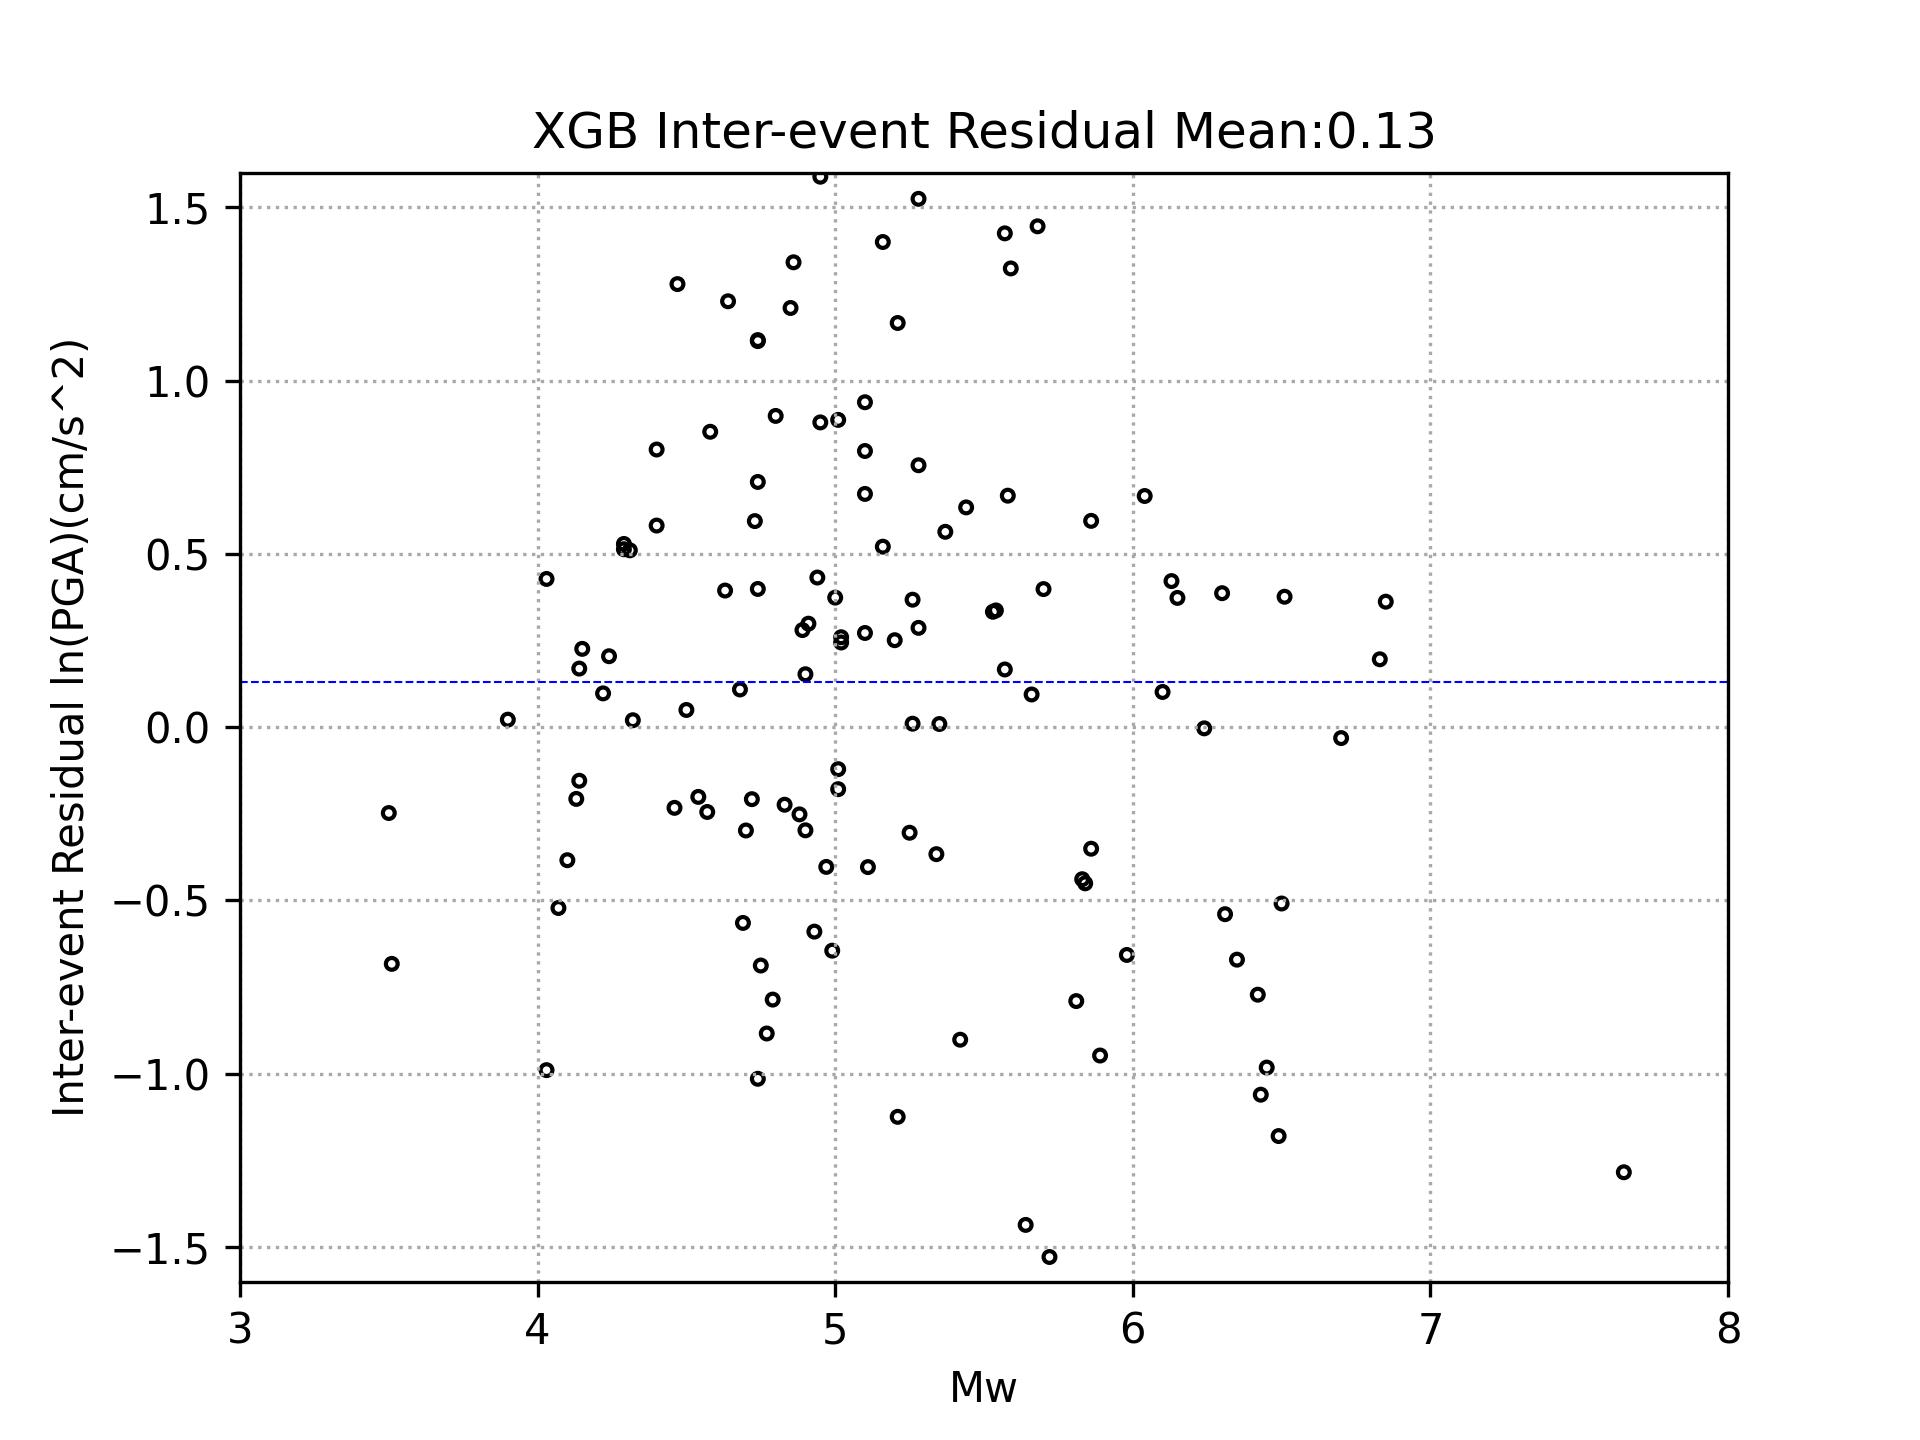
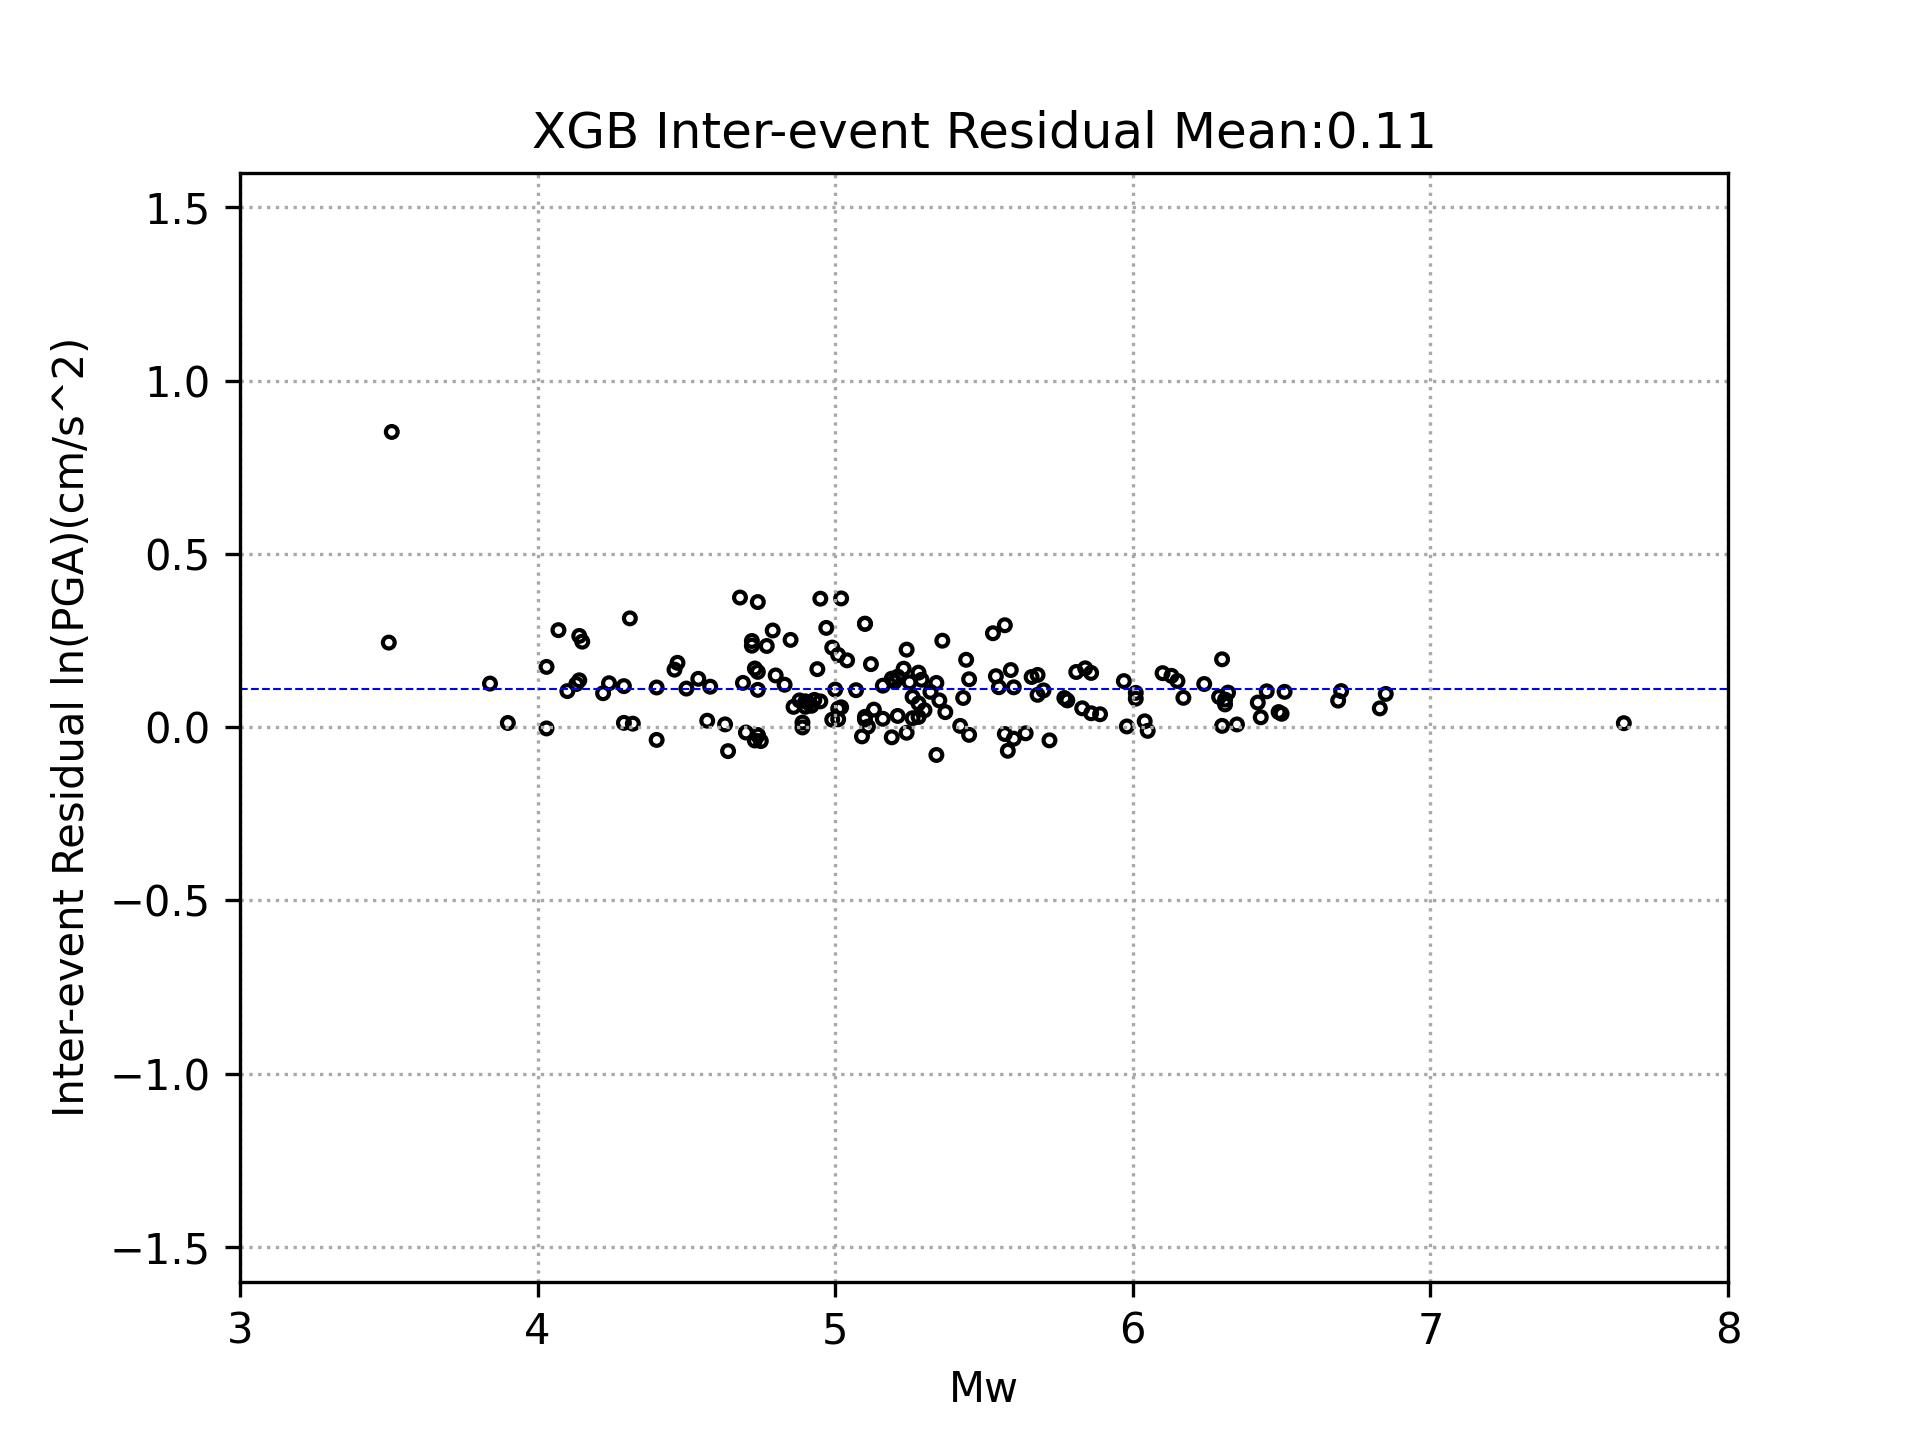
fix intra event bug

diff --git a/machine_learning/design_pattern/plot_figure.py b/machine_learning/design_pattern/plot_figure.py
@@ -502,7 +502,7 @@ class plot_fig:
         plt.ylabel('Numbers')
         plt.title(f'{self.abbreviation_name} Total-Residual Distribution')
         plt.savefig(
-            f'../{self.abbreviation_name}/{self.SMOGN_TSMIP} {self.target} {self.abbreviation_name} Total-Residual Distribution.jpg',
+            f'../{self.abbreviation_name}/{self.SMOGN_TSMIP} {self.target} {self.abbreviation_name} Total-Residual Distribution.png',
             dpi=300)
         plt.show()
         """
@@ -554,7 +554,7 @@ class plot_fig:
         plt.title(
             f'{self.abbreviation_name} Inter-event Residual Mean:{inter_mean}')
         plt.savefig(
-            f'../{self.abbreviation_name}/{self.SMOGN_TSMIP} Mw-{self.abbreviation_name} Inter-event Residual.jpg',
+            f'../{self.abbreviation_name}/{self.SMOGN_TSMIP} Mw-{self.abbreviation_name} Inter-event Residual.png',
             dpi=300)
         plt.show()
 
@@ -568,17 +568,16 @@ class plot_fig:
             'residual'] - total_data_df['inter_event_residual']
 
         # * Rrup intra-event
-        Rrup_xticks = [0, 50, 100, 150, 200, 250, 300, 400, 500]
         net = 50
         zz = np.array([0] * net * net).reshape(net, net)  # 打net*net個網格
         color_column = []
 
         i = 0
         while i < len(residual):  # 計算每個網格中總點數
-            x_net = (round(total_data_df['Rrup'][i], 2) -
-                     (-50)) / ((600 - (-50)) / net) # -50為圖中最小值 600為圖中最大值
+            x_net = (round(total_data_df['Rrup'][i], 2) - (-50)) / (
+                (600 - (-50)) / net)  # -50為圖中最小值 600為圖中最大值
             y_net = (round(total_data_df['intra_event_residual'][i], 2) -
-                     (-2.5)) / ((2.5 - (-2.5)) / net) # -2.5為圖中最小值 2.5為圖中最大值
+                     (-2.5)) / ((2.5 - (-2.5)) / net)  # -2.5為圖中最小值 2.5為圖中最大值
             zz[math.floor(x_net), math.floor(y_net)] += 1  # 第x,y個網格
             i += 1
 
@@ -597,7 +596,11 @@ class plot_fig:
                                                    colors=colorlist,
                                                    N=256)
 
-        plt.grid(linestyle=':', color='darkgrey')
+        plt.grid(which="both",
+                 axis="both",
+                 linestyle="--",
+                 linewidth=0.5,
+                 alpha=0.5)
         plt.scatter(total_data_df['Rrup'],
                     total_data_df['intra_event_residual'],
                     marker='o',
@@ -612,10 +615,17 @@ class plot_fig:
                  'b--',
                  label="mean value",
                  linewidth=0.5)
-        plt.xlim(-50, 600)
+        plt.xlim(1, 600)
         plt.ylim(-2.5, 2.5)
-        plt.xticks(Rrup_xticks)
         plt.legend()
+        plt.xscale("symlog")
+        plt.xticks([
+            1, 2, 3, 4, 5, 6, 7, 8, 9, 10, 20, 30, 40, 50, 60, 70, 80, 90, 100,
+            200, 300, 400, 500
+        ], [
+            1, '', '', '', '', '', '', '', '', 10, '', '', '', 50, '', '', '',
+            '', 100, 200, 300, '', 500
+        ])
         plt.xlabel('Rrup(km)')
         plt.ylabel(f'Intra-event Residual ln({self.target})(cm/s^2)')
         intra_mean = round(total_data_df['intra_event_residual'].mean(), 2)
@@ -681,7 +691,7 @@ class plot_fig:
         plt.title(
             f'{self.abbreviation_name} Intra-event Residual Mean:{intra_mean}')
         plt.savefig(
-            f'../{self.abbreviation_name}/{self.SMOGN_TSMIP} Vs30-{self.abbreviation_name} Intra-event Residual.jpg',
+            f'../{self.abbreviation_name}/{self.SMOGN_TSMIP} Vs30-{self.abbreviation_name} Intra-event Residual.png',
             dpi=300)
         plt.show()
 
@@ -769,9 +779,9 @@ class plot_fig:
                  color='r',
                  label=fault_type_list[fault_type])
         plt.scatter(np.exp(x_total[2]),
-                    np.exp(y_total)/980,
+                    np.exp(y_total) / 980,
                     marker='o',
-                    facecolors='none', 
+                    facecolors='none',
                     color='grey',
                     label='data')
         plt.xlabel('Rrup(km)')
@@ -908,7 +918,7 @@ class plot_fig:
                    [0.01, 0.05, 0.1, 0.2, 0.5, 1.0, 3.0, 4.0, 10.0])
         plt.legend()
         plt.savefig(
-            f"response spectrum-Mw{Mw} Rrup{Rrup} Vs30{Vs30} fault-type{fault_type} station{station_rank}.jpg",
+            f"response spectrum-Mw{Mw} Rrup{Rrup} Vs30{Vs30} fault-type{fault_type} station{station_rank}.png",
             dpi=300)
 
 

diff --git a/machine_learning/XGB/XGB_TSMIP.py b/machine_learning/XGB/XGB_TSMIP.py
@@ -25,7 +25,7 @@ station_rank = 265
 #     'model/XGB_Sa40.pkl', 'model/XGB_Sa100.pkl'
 # ]
 # seed = 18989
-ML_model = pickle.load(open(f'model/XGB_{target}.pkl', 'rb'))
+# ML_model = pickle.load(open(f'model/XGB_{target}.pkl', 'rb'))
 
 #? data preprocess 
 TSMIP_smogn_df = pd.read_csv(f"../../../TSMIP_smogn_{target}.csv")
@@ -34,7 +34,7 @@ model = dataprocess()
 after_process_SMOGN_data = model.preprocess(TSMIP_smogn_df, target, False)
 after_process_ori_data = model.preprocess(TSMIP_df, target, True)
 
-model_feture = ['lnVs30', 'MW', 'lnRrup', 'fault.type', 'STA_Lon_X', 'STA_Lat_Y']
+model_feture = ['lnVs30', 'MW', 'lnRrup', 'fault.type', 'STA_rank']
 result_SMOGN = model.split_dataset(after_process_SMOGN_data,
                                    f'ln{target}(gal)', True, *model_feture)
 result_ori = model.split_dataset(after_process_ori_data, f'ln{target}(gal)',
@@ -64,3 +64,5 @@ plot_something.residual(original_data[0], original_data[1],
 # plot_something.explainable(original_data[0], model_feture, ML_model, seed)
 # plot_something.respond_spetrum(Vs30, Mw, Rrup, fault_type, station_rank,
 #                                *model)
+
+# 生成數據

diff --git a/machine_learning/design_pattern/process_train.py b/machine_learning/design_pattern/process_train.py
@@ -39,7 +39,7 @@ class dataprocess:
             after_process_data = data[
                 (data["eq.type"] != "subduction interface")
                 & (data["eq.type"] != "subduction intraslab")
-                & (data["eq.type"] != "deep crustal")]
+                & (data["eq.type"] != "deep crustal")].reset_index() 
         else:
             after_process_data = data
         return after_process_data
